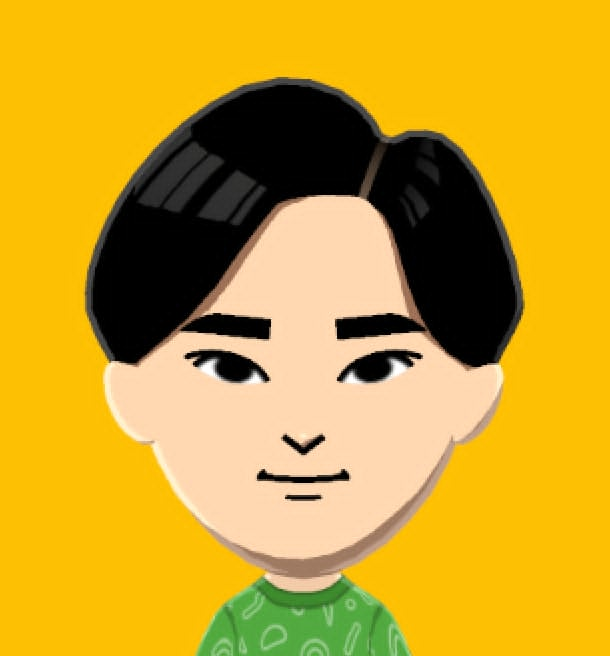
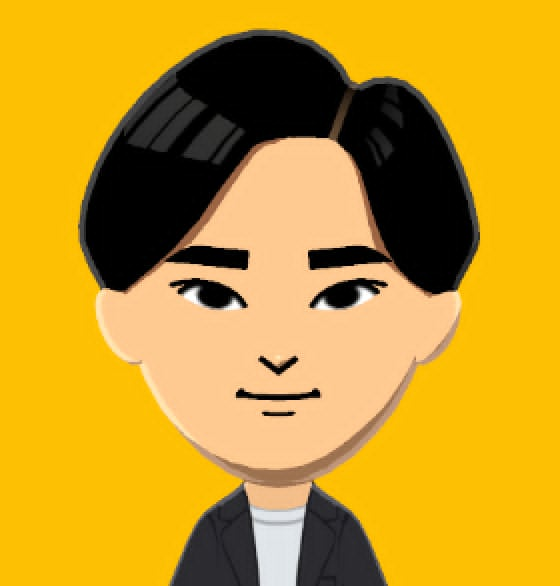
Add files via upload

diff --git a/app.py b/app.py
@@ -286,7 +286,10 @@ if menu == "Analysis":
         marker_line_width=2,
         textposition="outside"
     )
-
+     fig.update_layout(
+      plot_bgcolor="rgba(0,0,0,0)",
+      paper_bgcolor="rgba(0,0,0,0)")
+     
      st.plotly_chart(fig, width="stretch")
      st.markdown(
      "<p style='font-size:12px;'><b>Age Distribution Analysis of All Users</b></p>",
@@ -962,7 +965,7 @@ elif menu == "About our Team":
         )
             # ---------- MEMBER 3 ----------
     with col3:
-        st.image("member3.png", width='stretch')
+        st.image("member3.jpeg", width='stretch')
         st.markdown(
         '<p class="team-name">Dang Thai Thuy Linh</p>',
         unsafe_allow_html=True)
